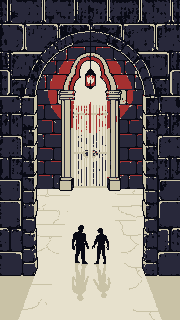
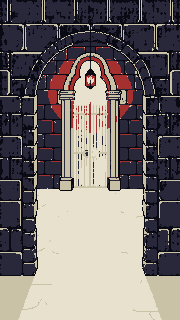
Art: fight plates (19), clean-up pass, retries in progress
Claude-Session: https://claude.ai/code/session_019ETFw1Uj2cByEfEuTF2CxM

diff --git a/art/pixellab-fightplates/post.py b/art/pixellab-fightplates/post.py
@@ -1,0 +1,33 @@
+"""Snap to the five tones, paint out stray black figures, sheet. python3 art/pixellab-fightplates/post.py [pick.json]"""
+import sys,json,os,numpy as np
+sys.path.insert(0,'art/pixellab-cutpaper')
+import snap as S
+from PIL import Image,ImageDraw
+from scipy import ndimage
+PAPER=(231,225,205);INK=(9,10,20);DARKC=(40,40,58)
+SHC=(201,194,166)
+def paint_out(im):
+    """Remove stray figures and their ghost shadows in the lower part: compact blobs of ink, dark or paper shadow, not touching the edge, sitting on paper or paper shadow."""
+    a=np.array(im.convert('RGBA'));rgb=a[...,:3].astype(int);h,w=rgb.shape[:2];cnt=0
+    near=lambda c,t=30:(np.abs(rgb-np.array(c)).sum(2)<t)
+    paper_like=near(PAPER)|near(SHC)
+    for kind in ('dark','shadow'):
+        mask=(near(INK)|near(DARKC)) if kind=='dark' else near(SHC)
+        lab,n=ndimage.label(mask,structure=np.ones((3,3)))
+        for i in range(1,n+1):
+            m=lab==i;ys,xs=np.where(m);area=m.sum()
+            if area<10 or area>1400:continue
+            if ys.min()<h*0.40 or xs.min()<=1 or xs.max()>=w-2 or ys.max()>=h-2:continue
+            if (xs.max()-xs.min())>46 or (ys.max()-ys.min())>72:continue
+            ring=ndimage.binary_dilation(m,iterations=3)&~m
+            if kind=='dark' and paper_like[ring].mean()<0.7:continue
+            if kind=='shadow' and near(PAPER)[ring].mean()<0.6:continue
+            a[ndimage.binary_dilation(m,iterations=1),:3]=PAPER;cnt+=1
+    return Image.fromarray(a,'RGBA'),cnt
+if __name__=='__main__':
+    pick=json.load(open(sys.argv[1])) if len(sys.argv)>1 else {}
+    j=json.load(open('art/pixellab-fightplates/jobs.json'));os.makedirs('art/pixellab-fightplates/final',exist_ok=True);tot=0
+    for k,l in j.items():
+        n=pick.get(k,len(l)-1);r=Image.open(f'art/pixellab-fightplates/raw/{k}_{n}/get_image_0.png').convert('RGBA');s=S.snap(r);s,c=paint_out(s);tot+=c
+        s.save(f'art/pixellab-fightplates/final/fight_{k}.png')
+    print('stray blobs painted out',tot)

diff --git a/art/pixellab-fightplates/gen_rest.py b/art/pixellab-fightplates/gen_rest.py
@@ -28,6 +28,10 @@ P={
 'dice2':"cut paper, flat top-down view of wooden floor planks in cream with black gaps and a thin red line, no text, no objects, very simple, tall narrow format",
 'dice3':"cut paper, flat top-down view of a black glass floor with cream cracks and a faint red crack, no text, no objects, very simple, tall narrow format",
 }
+NOBODY=' The room is completely deserted: nobody is in it, no person, no figure, no silhouette, no shadow of a person, no statue, nothing standing on the floor.'
+ONLY_RETRY=os.environ.get('RETRY')=='1'
+if ONLY_RETRY:
+    P={k:v+NOBODY for k,v in P.items()}
 only=[x for x in sys.argv[1].split(',') if x] if len(sys.argv)>1 else list(P);only=only or list(P)
 seed=int(sys.argv[2]) if len(sys.argv)>2 else 31;jf='art/pixellab-fightplates/jobs.json';jobs=json.load(open(jf)) if os.path.exists(jf) else {}
 for k in only:
